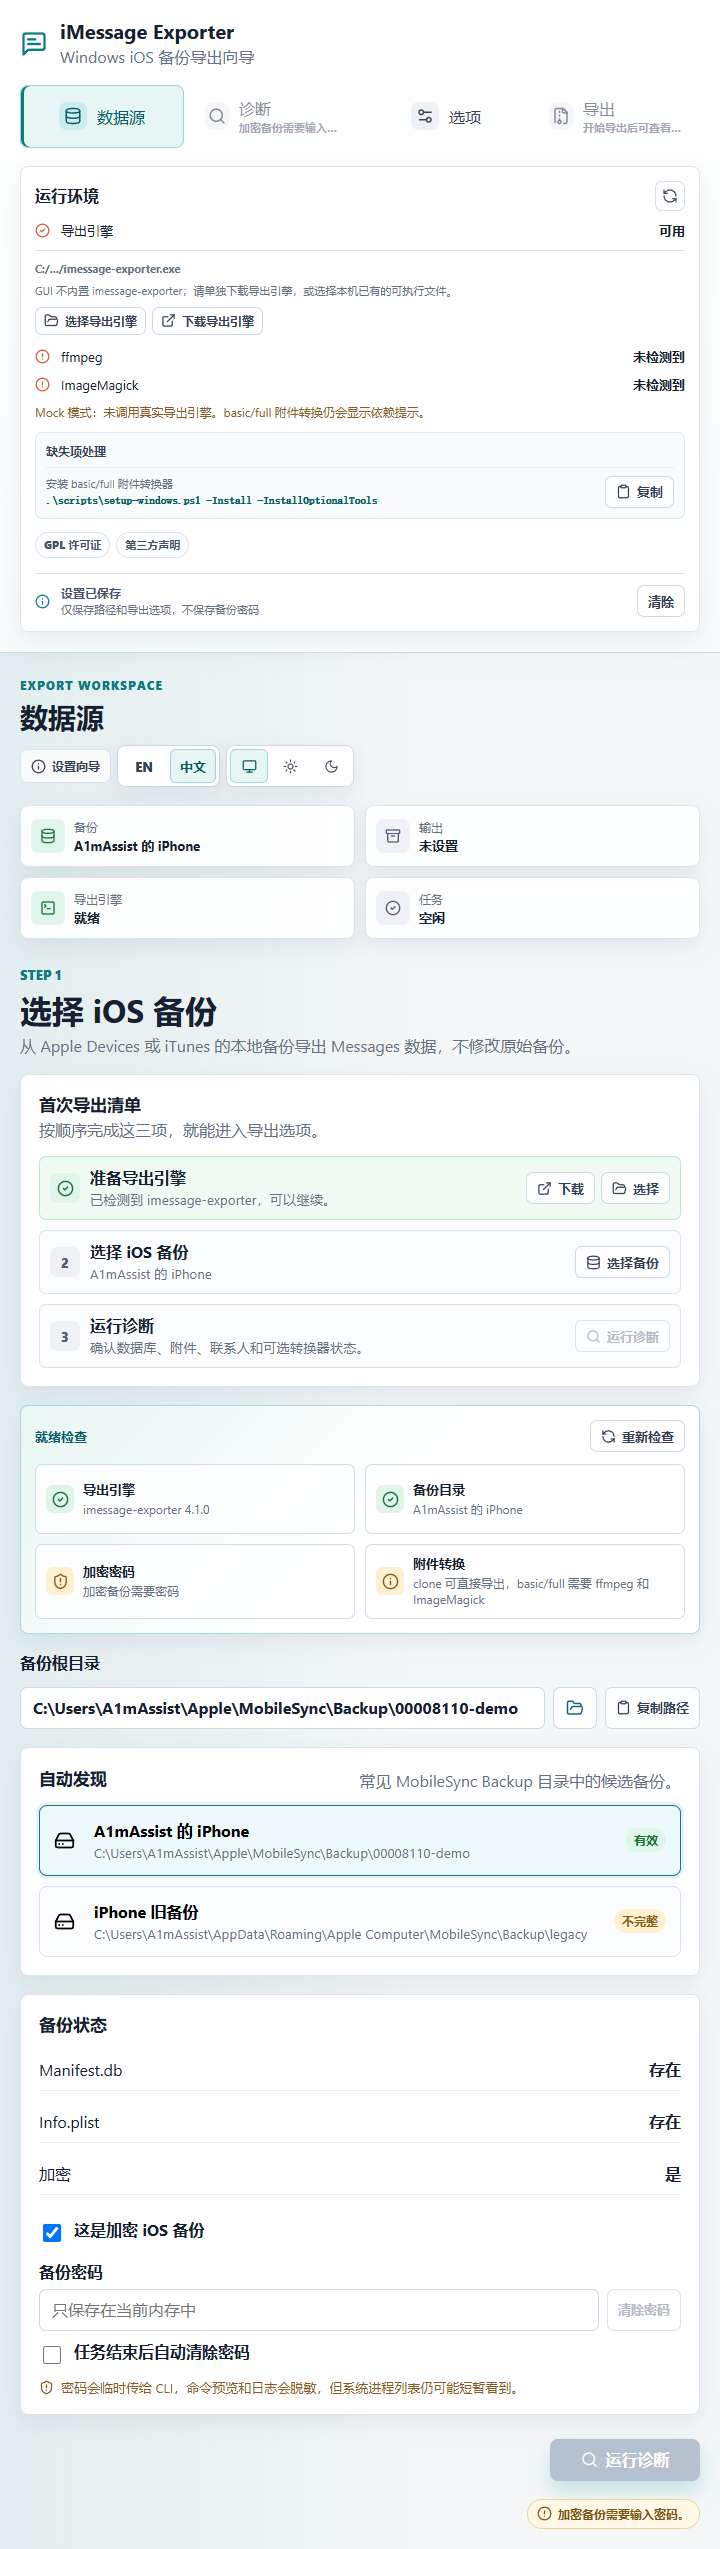
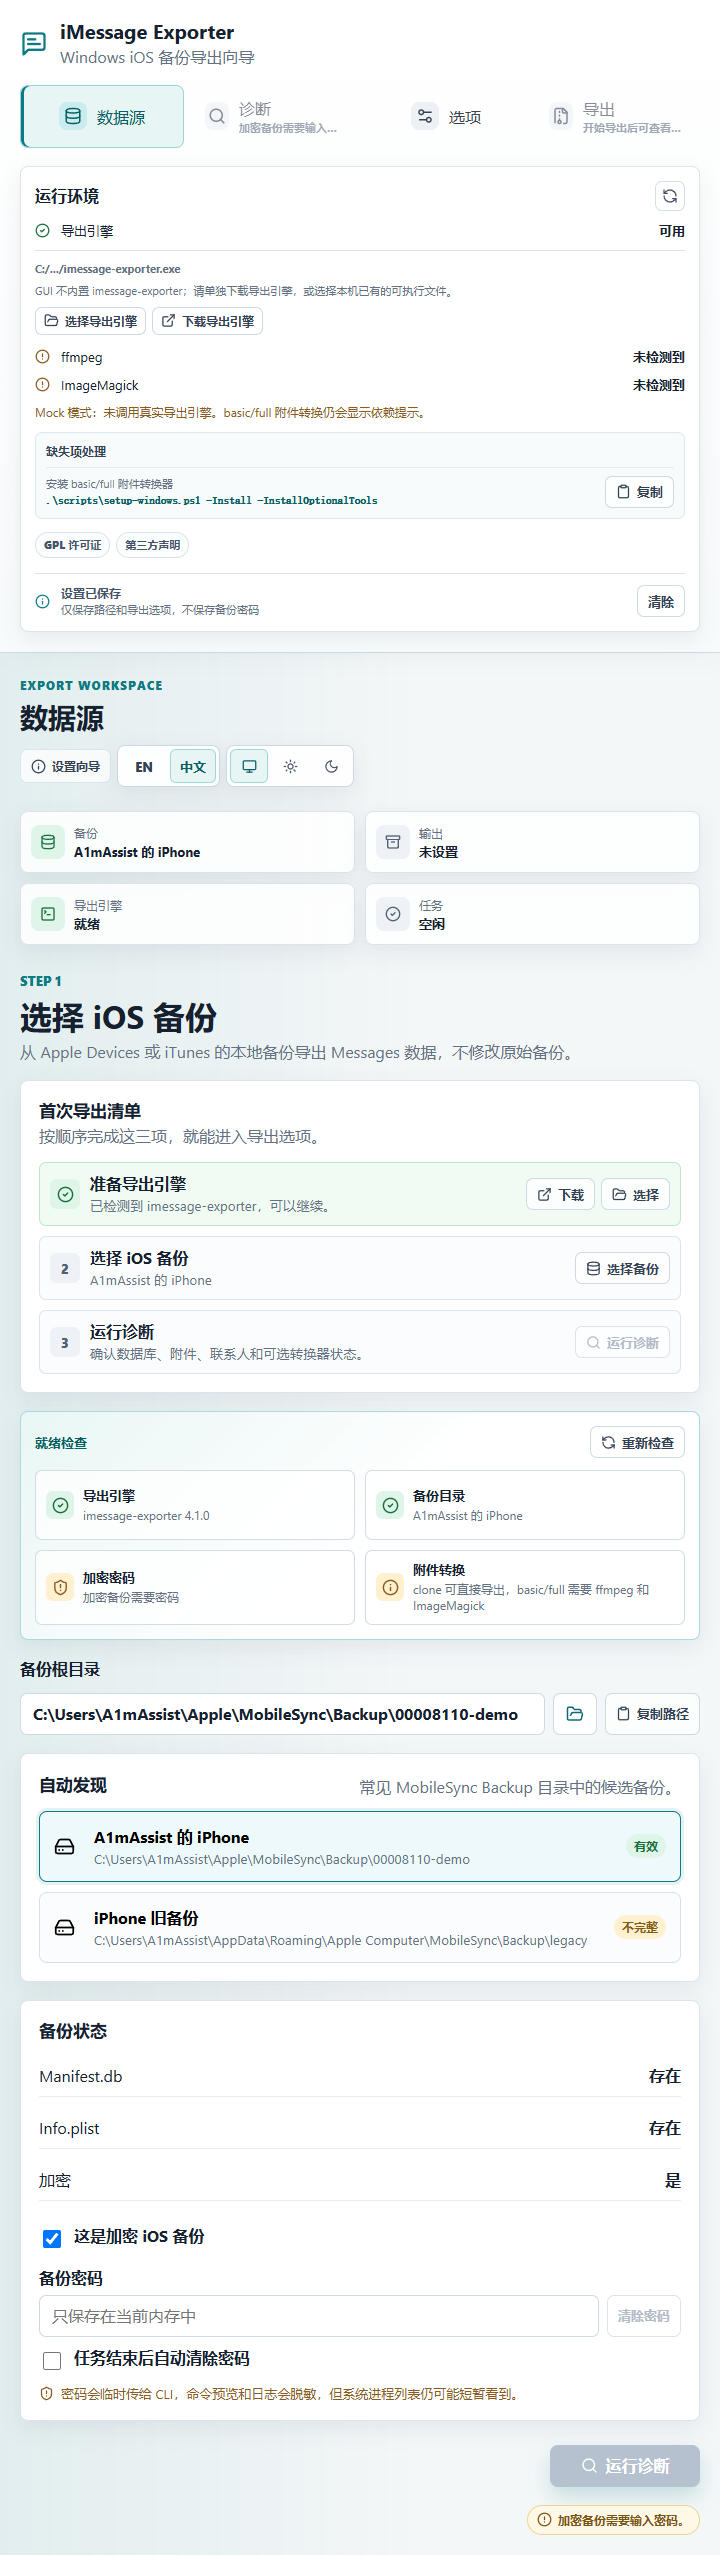
Polish dark mode status and wide layout

diff --git a/src/styles.css b/src/styles.css
@@ -335,7 +335,15 @@ button:disabled {
 }
 
 .status-line svg {
-  color: #d05b36;
+  color: var(--amber);
+}
+
+.status-line.ok svg {
+  color: var(--green);
+}
+
+.status-line.warn svg {
+  color: var(--amber);
 }
 
 .status-line span,
@@ -494,23 +502,24 @@ button:disabled {
 
 .workspace {
   overflow: auto;
-  padding: 26px 30px 34px;
+  padding: 26px clamp(24px, 2.4vw, 44px) 34px;
 }
 
 .page {
   display: flex;
   flex-direction: column;
   gap: 18px;
-  max-width: 980px;
+  width: min(100%, 1480px);
+  margin: 0 auto;
 }
 
 .topbar {
   display: grid;
   grid-template-columns: minmax(280px, 360px) 1fr;
   align-items: start;
-  gap: 18px;
-  max-width: 1180px;
-  margin-bottom: 24px;
+  gap: 24px;
+  width: min(100%, 1480px);
+  margin: 0 auto 24px;
 }
 
 .topbar-title {
@@ -1952,6 +1961,30 @@ label span {
 :root[data-theme="dark"] .diagnostic-summary-icon {
   background: #25313d;
   color: #b8c6d1;
+}
+
+:root[data-theme="dark"] .language-toggle,
+:root[data-theme="dark"] .theme-toggle {
+  border-color: var(--line-strong);
+  background: #202b36;
+  box-shadow: var(--shadow-tight);
+}
+
+:root[data-theme="dark"] .language-toggle button,
+:root[data-theme="dark"] .theme-toggle button {
+  color: #d7e1e8;
+}
+
+:root[data-theme="dark"] .language-toggle button:not(.selected):hover,
+:root[data-theme="dark"] .theme-toggle button:not(.selected):hover {
+  background: #25313d;
+}
+
+:root[data-theme="dark"] .language-toggle button.selected,
+:root[data-theme="dark"] .theme-toggle button.selected {
+  background: var(--accent-soft);
+  color: var(--accent-ink);
+  box-shadow: inset 0 0 0 1px rgba(66, 184, 189, 0.38);
 }
 
 :root[data-theme="dark"] .env-panel,

diff --git a/src/App.tsx b/src/App.tsx
@@ -1168,7 +1168,7 @@ function normalizeConfigPath(path: string): string {
 
 function StatusLine({ ok, label, value }: { ok?: boolean; label: string; value: string }) {
   return (
-    <div className="status-line">
+    <div className={`status-line ${ok ? "ok" : "warn"}`}>
       {ok ? <CheckCircle2 size={15} /> : <AlertCircle size={15} />}
       <span>{label}</span>
       <strong>{value}</strong>
